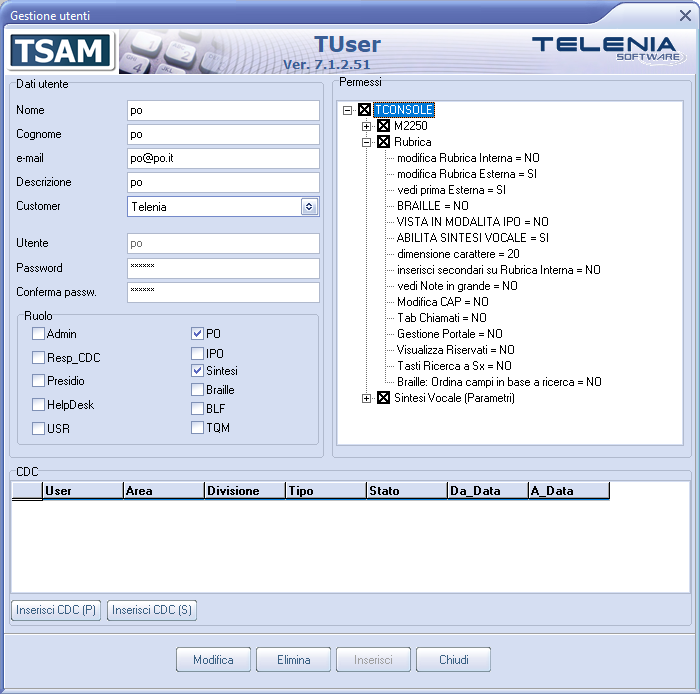
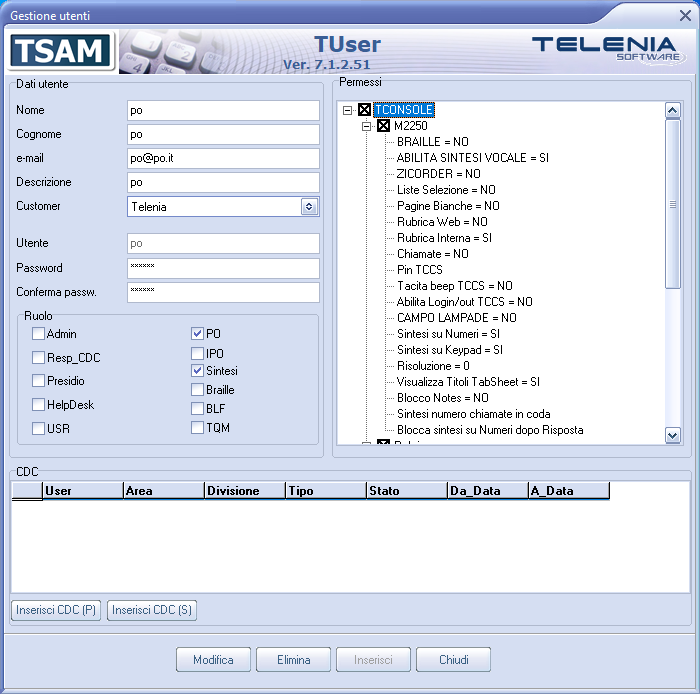
completato configurazione

diff --git a/source/conf.py b/source/conf.py
@@ -88,4 +88,5 @@ rst_epilog = """
 .. |latest_tvox_release| replace:: 21.0.14
 .. |latest_tconsole_release| replace:: 5.7.28
 .. |tconsole_default_installdir| replace:: *C:\\\\Telenia\\\\TConsole\\\\*
+.. |tconsoleserver_default_installdir| replace:: *C:\\\\Program Files (X86)\\\\Telenia\\\\TConsoleServerStd\\\\*
 """

diff --git a/source/projects/TCONSOLE/INSTALLAZIONE/CONFIGURAZIONE/ProfiloUtente.rst b/source/projects/TCONSOLE/INSTALLAZIONE/CONFIGURAZIONE/ProfiloUtente.rst
@@ -7,12 +7,69 @@ Si accede a questo strumento nei Programmi della barra delle applicazioni, nel p
 
 .. image:: /images/TCONSOLE/INSTALLAZIONE/CONFIGURAZIONE/profilo_utente_menu_Avvio.png
 
-Il modulo *Gestione Utenti* permette di gestire gli utenti che possono accedere al TConsole. Quindi tramite questa applicazione si potranno ad esempio definire i nomi utente e le password, assegnare a ciascun utente dei permessi in base ai quali potrà accedere o no a determinate funzioni di TConsole (es.: permesso di modificare la rubrica esterna, campo lampade), configurare alcuni parametri in funzione dell’utente (modalità Ipovedente, Sintesi Vocale, Barra Braille).
+Il modulo *Gestione Utenti* permette di gestire gli utenti che possono accedere a TConsole. Tramite questa applicazione è possibile:
+
+- definire i nomi utente e le password;
+- assegnare a ciascun utente dei permessi in base ai quali potrà accedere o no a determinate funzioni di TConsole (es.: permesso di modificare la Rubrica Esterna, Campo Lampade, l'accesso stesso a questo strumento di configurazione);
+- configurare alcuni parametri in funzione dell’utente (modalità Ipovedente, Sintesi Vocale, Barra Braille).
 
 .. image:: /images/TCONSOLE/INSTALLAZIONE/CONFIGURAZIONE/profilo_utente1.png
 
+Il form di avvio elenca tutti gli utenti autorizzati ad accedere al sistema TSAM e TConsole e presenta le seguenti informazioni riepilogative:
+
+- utente
+- cognome
+- nome
+- descrizione
+
 .. image:: /images/TCONSOLE/INSTALLAZIONE/CONFIGURAZIONE/profilo_utente2.png
+
+Per visualizzare nel dettaglio il profilo di un utente, fare doppio clic col mouse sulla riga corrispondente oppure selezionarlo e premere il pulsante *Proprietà*.
 
 .. image:: /images/TCONSOLE/INSTALLAZIONE/CONFIGURAZIONE/profilo_utente3.png
 
+Una volta visualizzato un profilo utente nella relativa finestra, da questa è possibile impostare abilitazioni, funzioni e permessi relativi all’utente:
+
+- nel riquadro *Ruolo* a sinistra sono visibili le abilitazioni o funzionalità da utilizzare, **compatibilmente con la licenza disponibile** (ad es. viene utilizzata la Sintesi Vocale)
+- nel riquadro *Permessi* a destra sono visibili le abilitazioni consentite dai vari ruoli e le configurazioni dei singoli parametri (funzionalità attiva/non attiva o valore del parametro)
+
+Ad esempio, in riferimento all'immagine precedente relativa all'utenza *po*:
+
+- nel riquadro *Ruolo* è presente il flag su **PO** per la vista Normale (licenza abilitata di default), inoltre è presente il flag anche su **Sintesi** pertanto è necessario disporre anche della licenza per la Sintesi Vocale
+- nel riquadro *Ruolo* non è presente il flag su **Admin** pertanto l'utenza *po* sarà abilitata solo all'accesso a TConsole ma non a questa interfaccia amministrativa
+
+.. warning ::
+    Se nel riquadro *Ruolo* si mette il flag su un ruolo ma non si dispone della relativa licenza, all'avvio di TConsole verrà restituito un errore di "licenza non disponibile" e TConsole non si potrà aprire.
+
+- nel riquadro *Permessi* la voce **TConsole**, funzionalità **M2250** (console principale delle funzionalità telefoniche) è selezionata (la casella contiene la crocetta) quindi la funzionalità è utilizzata e i relativi parametri vengono considerati. Per deselezionare la voce fare clic con tasto destro del mouse
+- tra i parametri della funzionalità **M2250**:
+
+  - *BRAILLE = NO*: nella console principale la Barra Braille non è abilitata; il parametro viene comunque ignorato in quanto nel riquadro *Ruolo* NON è presente il flag su **Braille**
+  - *ABILITA SINTESI VOCALE = SI*: nella console principale la Sintesi Vocale è abilitata
+  - *Rubrica Interna = SI*: la Rubrica Interna (F2) è abilitata e viene resa visibile, altrimenti di default è disponibile solo la Rubrica Esterna (F3)
+  - *CAMPO LAMPADE = NO*: il Campo Lampade non è abilitato
+  - *Sintesi su Numeri = SI*: all'arrivo di una chiamata, la Sintesi Vocale riproduce informazioni sul numero chiamante ("0452224660 su linea 0") o, se il numero è presente in rubrica ed il lookup è abilitato, viene letto il nominativo contenuto in rubrica. Se settato a *NO* viene riprodotto un messaggio generico del tipo "Chiamata entrante su linea 0".
+  - *Sintesi su Keypad = SI*: alla pressione di una delle cifre del tastierino numerico (su tastiera del PC o sulla console), la Sintesi Vocale riproduce la cifra che viene di volta in volta digitata
+  - *Blocca sintesi su Numeri dopo Risposta* (parametro non valorizzato, in questo caso viene considerato come valorizzato a *NO*): al momento della risposta ad una chiamata, la Sintesi Vocale riproduce informazioni sul numero chiamato (DNIS) e sul numero chiamante (CLID). Se valorizzato a *SI* la Sintesi Vocale non dice nulla al momento della risposta ad una chiamata
+
+Analogamente, in riferimento alla seguente immagine, sempre relativa all'utenza *po*:
+
 .. image:: /images/TCONSOLE/INSTALLAZIONE/CONFIGURAZIONE/profilo_utente4.png
+
+- nel riquadro *Permessi*, sempre alla voce **TConsole**, la funzionalità **Rubrica** (funzionalità principali di Rubrica) è selezionata quindi la funzionalità è utilizzata e i relativi parametri vengono considerati
+- tra i parametri della funzionalità **Rubrica**:
+
+  - *modifica Rubrica Interna = NO*: se abilitata per la visualizzazione (vedi parametro *Rubrica Interna* nella funzionalità **M2250**), la Rubrica Interna è disponibile solo in lettura ma non è possibile modificarla
+  - *modifica Rubrica Esterna = SI*: è possibile modificare la Rubrica Esterna
+  - *BRAILLE = NO*: la Barra Braille non è abilitata in Rubrica; il parametro viene comunque ignorato in quanto nel riquadro *Ruolo* NON è presente il flag su **Braille**. Ulteriori dettagli sulla configurazione della Barra Braille in Rubrica sono descritti in :ref:`Rubint.ini RubEst.ini Sezione BRAILLE`
+  - *VISTA IN MODALITÀ IPO = NO*: la modalita IPO o IPO PLUS non è abilitata, pertanto TConsole si avvia solo nella vista Normale (Vedente); il parametro viene comunque ignorato in quanto nel riquadro *Ruolo* NON è presente il flag su **IPO**. Per abilitare la vista IPO (TConsole si avvia in modalità IPO ed è possibile passare alla vista Normale e viceversa tramite combinazioni di tasti) impostare il parametro a *IPO*. Per abilitare la vista IPO PLUS (TConsole si avvia in modalità IPO PLUS ed è possibile passare alla vista Normale, vista IPO e viceversa tramite combinazioni di tasti) impostare il parametro a *PLUS*
+  - *ABILITA SINTESI VOCALE = SI*: la Sintesi Vocale è abilitata in Rubrica. Ulteriori dettagli sulla configurazione della Sintesi Vocale in Rubrica sono descritti in :ref:`Rubint.ini RubEst.ini Sezione SYNTH`
+  - *vedi Note in grande = NO*: **solo nella vista Normale** è possibile, impostando il parametro a *NO*, suddividere verticalmente la sezione dei dettagli contatto di Rubrica Interna o Esterna, in modo da visualizzare i dettagli in due colonne (anziché un solo dettaglio per riga, uno sotto l'altro) permettendo di risparmiare spazio. Se impostato a *SI* viene visualizzato un solo dettaglio per riga, come nelle viste IPO e IPO PLUS. Ulteriori dettagli sulla configurazione della Sintesi Vocale in Rubrica sono descritti in :ref:`Rubint.ini RubEst.ini Sezioni DETAIL e DETAIL_IPO`
+
+Per modificare uno di questi parametri fare doppio clic sulla voce interessata per aprire la finestra di modifica, inserire il nuovo valore e confermare cliccando su *OK* (vedi esempio nell'immagine seguente):
+
+.. image:: /images/TCONSOLE/INSTALLAZIONE/CONFIGURAZIONE/profilo_utente5.png
+
+In questo caso si è scelto di abilitare la vista IPO, pertanto è necessario anche mettere il flag su *IPO* nel riquadro *Ruolo*, oltre che disporre della relativa licenza.
+
+Dopo aver impostato i permessi e assegnato funzioni e abilitazioni, per rendere effettive le operazioni effettuate cliccare su *Modifica*.

diff --git a/source/projects/TCONSOLE/INSTALLAZIONE/CONFIGURAZIONE/RubIntRubEst.rst b/source/projects/TCONSOLE/INSTALLAZIONE/CONFIGURAZIONE/RubIntRubEst.rst
@@ -84,6 +84,20 @@ Sempre relativamente allo stesso esempio:
 - il campo del database *LIBERO_4* verrà presentato con l'etichetta *Email* e potrà contenere una stringa alfanumerica qualsiasi (*Type* e *Maschera* non presenti)
 - il campo del database *LIBERO_5*, in quanto commentato, verrà presentato con l'etichetta stessa *LIBERO_5* e il suo contenuto non sarà modificabile da TConsole
 
+.. _Rubint.ini RubEst.ini Sezioni DETAIL e DETAIL_IPO:
+
+Sezioni DETAIL e DETAIL_IPO
+===========================
+
+..
+    Questa sezione contiene:
+
+    - l'associazione tra il nome campo del database di rubrica e l'etichetta presentata su TConsole
+    - eventuali vincoli sul tipo di dato (numero o stringa) che il campo può contenere
+    - eventuali vincoli sul valore che può essere inserito nel campo
+
+.. _Rubint.ini RubEst.ini Sezione SYNTH:
+
 Sezione [SYNTH]
 ===============
 
@@ -119,6 +133,8 @@ Sempre relativamente allo stesso esempio:
 - il secondo campo riprodotto con Sintesi Vocale è *TEL_EST*, del quale viene letto solo il contenuto ma non l'etichetta (*NoLabel*\ =\ *1*)
 - il terzo campo riprodotto con Sintesi Vocale è *CAT*, del quale viene letta anche l'etichetta (*NoLabel*\ =\ *0*)
 - il quarto campo riprodotto con Sintesi Vocale è *LIBERO_1*, del quale viene letta anche l'etichetta (*NoLabel* non valorizzato)
+
+.. _Rubint.ini RubEst.ini Sezione BRAILLE:
 
 Sezione [BRAILLE]
 =================

diff --git a/source/projects/TCONSOLE/INSTALLAZIONE/CONFIGURAZIONE/CampoLampade.rst b/source/projects/TCONSOLE/INSTALLAZIONE/CONFIGURAZIONE/CampoLampade.rst
@@ -1,0 +1,24 @@
+=============
+Campo Lampade
+=============
+
+Per gestire il campo lampade è necessario configurare nel :ref:`ProfiloUtente` il valore *CAMPO LAMPADE = SI*.
+
+Per le centrali Nortel il TConsoleServer NON viene utilizzato per la gestione del campo lampade per cui occorre assicurarsi che il parametro contenuto in *\[TCS_INSTALLDIR\]\\config\\tabparam.ini* ([1]_) sia disabilitato:
+
+.. code-block:: ini
+
+    [BLF]
+    Active=NO
+
+e che il file *\[TCS_INSTALLDIR\]\\config\\devices* ([1]_) sia vuoto.
+
+Per le altre tipologie di centrale il campo lampade viene gestito con l’ausilio del TConsoleServer per cui occorre inserire, in *\[INSTALLDIR\]\\config\\tabparam* ([2]_) nel parametro *TCONSOLESERVER*, l’IP della macchina su cui è installato il TConsoleServer.
+
+**Per i dettagli della configurazione si rimanda al manuale di installazione del TConsoleServer.**
+
+.. rubric:: Note
+
+.. [1] valore di default di *\[TCS_INSTALLDIR\]* per macchine a 64 bit: |tconsoleserver_default_installdir|
+
+.. [2] valore di default di *\[INSTALLDIR\]*: |tconsole_default_installdir|
